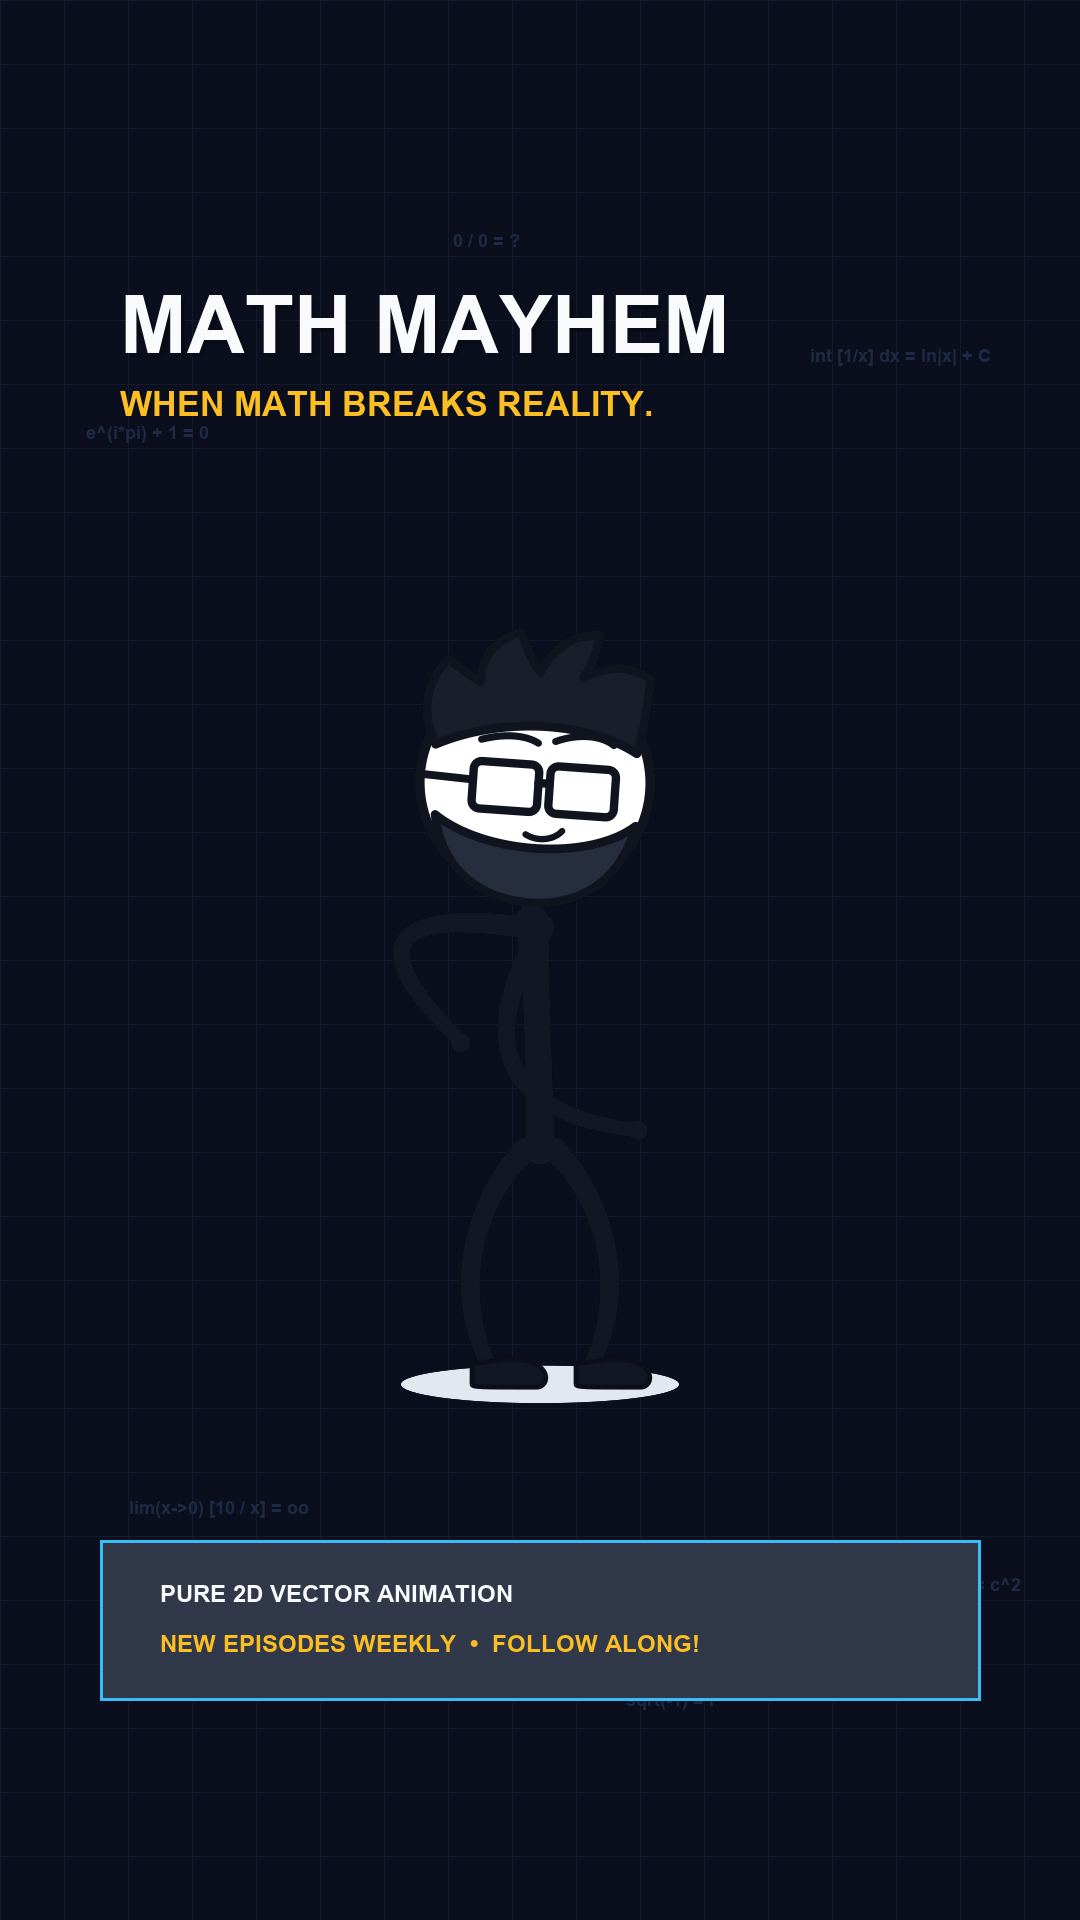
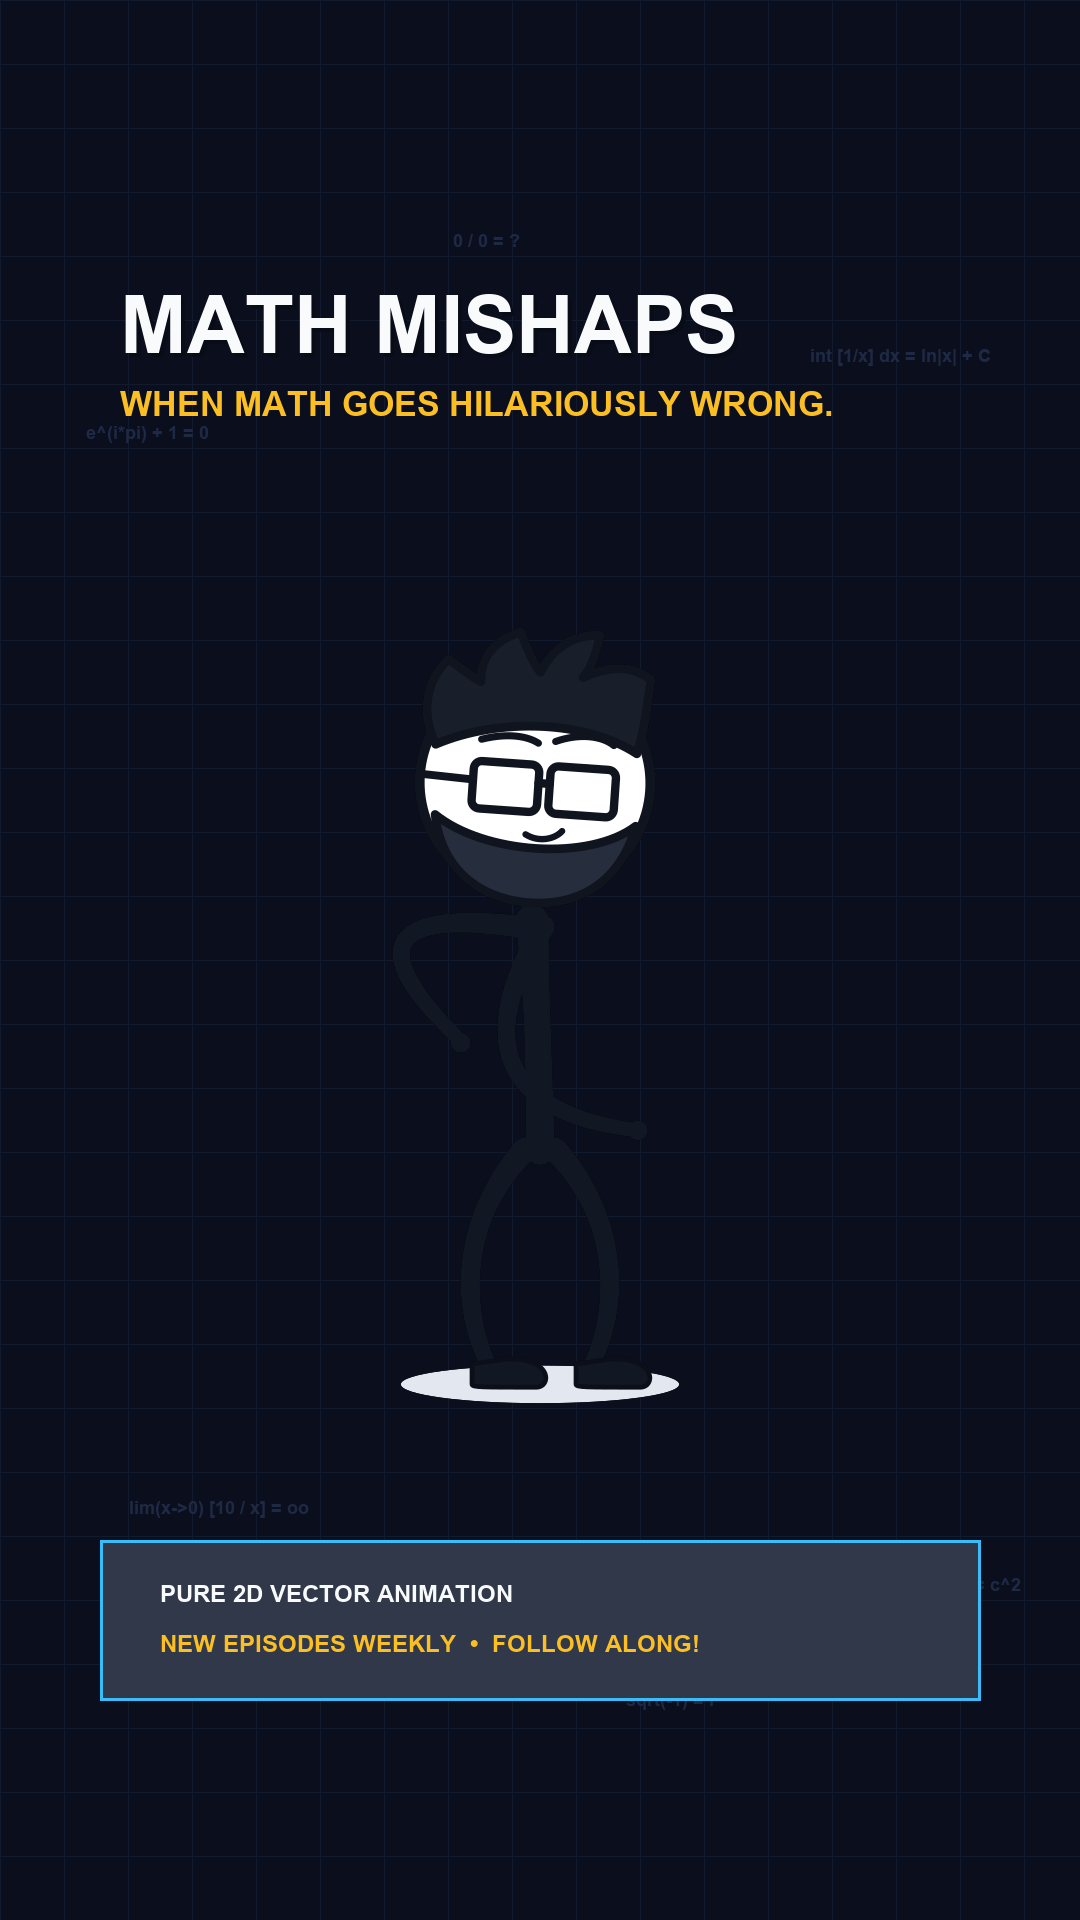
feat(branding): complete official rebrand to Math Mishaps across channel assets and distribution metadata

Changed region(s): [[0.3056, 0.1562, 0.7639, 0.2188]]

diff --git a/app/distribution_adapters.py b/app/distribution_adapters.py
@@ -120,7 +120,7 @@ class YouTubeShortsAdapter(BasePublishingAdapter):
             title = f"{base_title[:75]}... #Shorts"
 
         description_lines = [
-            f"Math Mayhem — {episode.title}",
+            f"Math Mishaps — {episode.title}",
             "",
             "Can you solve this before reality breaks?",
             "",
@@ -130,12 +130,12 @@ class YouTubeShortsAdapter(BasePublishingAdapter):
             "⚠ Disclaimer:",
             "Educational satire. Fictional comedic consequences (e.g. dimensional rotation, cartoon void collapses) are purely illustrative!",
             "",
-            "#MathMayhem #Shorts #Math #Animation #Comedy #Education #Science #STEM",
+            "#MathMishaps #Shorts #Math #Animation #Comedy #Education #Science #STEM",
         ]
         description = "\n".join(description_lines)
 
         tags = [
-            "Math Mayhem",
+            "Math Mishaps",
             "animation",
             "shorts",
             "math comedy",
@@ -151,7 +151,7 @@ class YouTubeShortsAdapter(BasePublishingAdapter):
             title=title,
             description=description,
             tags=tags,
-            hashtags=["#Shorts", "#MathMayhem", "#Math", "#Animation", "#STEM"],
+            hashtags=["#Shorts", "#MathMishaps", "#Math", "#Animation", "#STEM"],
             disclaimer_text="Fictional comedic metaphors are purely illustrative.",
             math_summary="Verified via SymPy symbolic engine.",
             category="Education",
@@ -225,17 +225,17 @@ class TikTokAdapter(BasePublishingAdapter):
     def build_metadata(self, episode: Episode, version: EpisodeVersion) -> PublishMetadata:
         caption = (
             f"Wait till the end... 😱 {episode.title} "
-            f"#MathMayhem #Math #Animation #Comedy #StemTok #LearnOnTikTok #Cartoon"
+            f"#MathMishaps #Math #Animation #Comedy #StemTok #LearnOnTikTok #Cartoon"
         )
         if len(caption) > 150:
             caption = caption[:147] + "..."
 
-        tags = ["MathMayhem", "StemTok", "animation", "comedy", "math", "calculus"]
+        tags = ["MathMishaps", "StemTok", "animation", "comedy", "math", "calculus"]
         return PublishMetadata(
             title=caption,
             description=caption,
             tags=tags,
-            hashtags=["#MathMayhem", "#StemTok", "#Math", "#Animation"],
+            hashtags=["#MathMishaps", "#StemTok", "#Math", "#Animation"],
             category="Education",
             privacy_status="public",
         )
@@ -259,7 +259,7 @@ class TikTokAdapter(BasePublishingAdapter):
 
         is_sim = True if force_simulation is not False else False
         mock_id = f"tt_{version.video_sha256[:12]}" if version.video_sha256 else f"tt_sim_{int(time.time())}"
-        published_url = f"https://www.tiktok.com/@mathmayhem/video/{mock_id}"
+        published_url = f"https://www.tiktok.com/@mathmishaps/video/{mock_id}"
 
         session.add(
             AuditEvent(
@@ -302,13 +302,13 @@ class InstagramReelsAdapter(BasePublishingAdapter):
             f"{episode.title} 🧮 Pure 2D vector animation. "
             f"Never argue with mathematics!\n\n"
             f"Audio: Option A Playful Orchestral Cartoon\n"
-            f"#MathMayhem #Reels #MathReels #2DAnimation #Cairo #IndieAnimation #STEM"
+            f"#MathMishaps #Reels #MathReels #2DAnimation #Cairo #IndieAnimation #STEM"
         )
         return PublishMetadata(
             title=episode.title,
             description=caption,
-            tags=["MathMayhem", "Reels", "Animation", "Math"],
-            hashtags=["#MathMayhem", "#Reels", "#2DAnimation", "#STEM"],
+            tags=["MathMishaps", "Reels", "Animation", "Math"],
+            hashtags=["#MathMishaps", "#Reels", "#2DAnimation", "#STEM"],
             category="Education",
             privacy_status="public",
         )

diff --git a/app/branding_generator.py b/app/branding_generator.py
@@ -193,8 +193,8 @@ def generate_youtube_banner(out_path: Path) -> Path:
     subtitle_font = load_math_font(34)
     badge_font = load_math_font(22)
 
-    # "MATH MAYHEM" with 3D chalk drop shadow
-    title_text = "MATH MAYHEM"
+    # "MATH MISHAPS" with 3D chalk drop shadow
+    title_text = "MATH MISHAPS"
     title_x = safe_left + 60
     title_y = safe_top + 80
     draw.text((title_x + 4, title_y + 4), title_text, fill=(8, 12, 22), font=title_font)
@@ -203,7 +203,7 @@ def generate_youtube_banner(out_path: Path) -> Path:
     # Tagline
     tag_x = title_x + 5
     tag_y = title_y + 105
-    draw.text((tag_x, tag_y), "WHEN MATH BREAKS REALITY.", fill=ACCENT_GOLD, font=subtitle_font)
+    draw.text((tag_x, tag_y), "WHEN MATH GOES HILARIOUSLY WRONG.", fill=ACCENT_GOLD, font=subtitle_font)
 
     # Value Proposition Badges
     badge_y = tag_y + 65
@@ -268,10 +268,10 @@ def generate_social_header(out_path: Path) -> Path:
 
     title_x = 80
     title_y = 180
-    draw.text((title_x + 3, title_y + 3), "MATH MAYHEM", fill=(8, 12, 22), font=title_font)
-    draw.text((title_x, title_y), "MATH MAYHEM", fill=CHALK_WHITE, font=title_font)
+    draw.text((title_x + 3, title_y + 3), "MATH MISHAPS", fill=(8, 12, 22), font=title_font)
+    draw.text((title_x, title_y), "MATH MISHAPS", fill=CHALK_WHITE, font=title_font)
 
-    draw.text((title_x, title_y + 78), "When Math Breaks Reality.", fill=ACCENT_GOLD, font=subtitle_font)
+    draw.text((title_x, title_y + 78), "When Math Goes Terribly, Hilariously Wrong.", fill=ACCENT_GOLD, font=subtitle_font)
     draw.text((title_x, title_y + 128), "Pure 2D Animation  •  Zero Dialogue  •  Weekly Shorts", fill=ACCENT_CYAN, font=badge_font)
 
     # Option C Protagonist on Right
@@ -329,10 +329,10 @@ def generate_mobile_banner(out_path: Path) -> Path:
     badge_font = load_math_font(24)
 
     # Top Header
-    title_text = "MATH MAYHEM"
+    title_text = "MATH MISHAPS"
     draw.text((124, 284), title_text, fill=(8, 12, 22), font=title_font)
     draw.text((120, 280), title_text, fill=CHALK_WHITE, font=title_font)
-    draw.text((120, 385), "WHEN MATH BREAKS REALITY.", fill=ACCENT_GOLD, font=subtitle_font)
+    draw.text((120, 385), "WHEN MATH GOES HILARIOUSLY WRONG.", fill=ACCENT_GOLD, font=subtitle_font)
 
     # Center Character
     surf = cairo.ImageSurface(cairo.FORMAT_ARGB32, width, height)
@@ -410,7 +410,7 @@ def generate_watermark(out_path: Path) -> Path:
 
     # Brand text
     brand_font = load_math_font(36)
-    draw.text((115, 395), "MATH MAYHEM", fill=ACCENT_CYAN, font=brand_font)
+    draw.text((108, 395), "MATH MISHAPS", fill=ACCENT_CYAN, font=brand_font)
 
     out_path.parent.mkdir(parents=True, exist_ok=True)
     img.save(out_path, format="PNG")
@@ -422,7 +422,7 @@ def build_full_branding_kit(output_dir: Optional[Path] = None) -> dict[str, Path
     target_dir = output_dir or (Path(__file__).resolve().parent.parent / "renders" / "branding")
     target_dir.mkdir(parents=True, exist_ok=True)
 
-    print(f"Generating Math Mayhem Channel Branding Kit into: {target_dir}")
+    print(f"Generating Math Mishaps Channel Branding Kit into: {target_dir}")
     res = {
         "avatar": generate_avatar(target_dir / "channel_avatar_1024x1024.png"),
         "youtube_banner": generate_youtube_banner(target_dir / "youtube_banner_2560x1440.png"),

diff --git a/renders/packages/EP001_RELEASE_MASTER/metadata/DISTRIBUTION_GUIDE.md b/renders/packages/EP001_RELEASE_MASTER/metadata/DISTRIBUTION_GUIDE.md
@@ -1,9 +1,12 @@
-# Math Mayhem — Episode 001 Platform Distribution Guide
+# Math Mishaps — Episode 001 Platform Distribution Guide
 
-## Episode Overview
-- **Title:** Never Divide by Zero
+## Series & Brand Overview
+- **Series Title:** Math Mishaps
+- **Official Handle:** `@MathMishaps` (YouTube, TikTok, Instagram)
+- **Tagline:** *"When Math Goes Terribly, Hilariously Wrong."*
+- **Episode Title:** Never Divide by Zero (Director's Cut)
 - **Episode Code:** EP001
-- **Runtime:** 24.00 seconds (720 frames @ 30 FPS)
+- **Runtime:** 26.00 seconds (780 frames @ 30 FPS)
 - **Format:** 1080 × 1920 (9:16 Vertical Video)
 - **Soundtrack:** Option A Playful Orchestral Cartoon Mix
 
@@ -16,27 +19,27 @@
 
 **Description:**
 ```
-What happens when you divide by zero on a giant calculator?
+What happens when you divide by zero on a giant calculator in the void?
 
-Episode 001 of Math Mayhem: 'Never Divide by Zero'.
+Welcome to Math Mishaps — pure 2D animated cartoon comedy where math goes horribly, hilariously wrong!
 
 Mathematical Truth:
 • 10 ÷ 2 = 5
 • 10 ÷ 1 = 10
-• 10 ÷ 0 = UNDEFINED (Division by zero is impossible in standard arithmetic!)
-• 0 ÷ 0 = INDETERMINATE / UNDEFINED (The forbidden cliffhanger!)
+• 10 ÷ 0 = UNDEFINED (Division by zero breaks the laws of arithmetic!)
+• 0 ÷ 0 = INDETERMINATE / UNDEFINED (The ultimate paradox!)
 
-#MathMayhem #Shorts #Animation #Math #DivideByZero #MathHumor
+#MathMishaps #Shorts #Animation #Math #DivideByZero #MathHumor #Comedy #STEM
 ```
 
-**Tags:** `math mayhem, never divide by zero, division by zero, math animation, cairo animation, python animation, math shorts, calculus, zero divided by zero, indeterminate form, funny math, stem animation`
+**Tags:** `math mishaps, mathmishaps, never divide by zero, division by zero, math animation, cairo animation, python animation, math shorts, calculus, zero divided by zero, indeterminate form, funny math, stem animation`
 
 ---
 
 ### 2. TikTok
 **Caption:**
 ```
-POV: You pushed the one button in math you're never supposed to touch... 😳💥 #MathMayhem #DivideByZero #MathTok #Animation #Funny #LearnOnTikTok
+POV: You pushed the one button in math you're never supposed to touch... 😳💥 #MathMishaps #DivideByZero #MathTok #Animation #Funny #LearnOnTikTok
 ```
 
 ---
@@ -50,7 +53,7 @@ Watch what happens when our protagonist encounters a pedestal calculator in the 
 
 Drop your favorite math paradox in the comments! 👇
 
-#MathMayhem #MathHumor #Animation #StemEducation #MathReels #ZeroDivision
+#MathMishaps #MathHumor #Animation #StemEducation #MathReels #ZeroDivision #2DAnimation
 ```
 
 ---
@@ -67,7 +70,7 @@ As x approaches 0 from the right, 10 / x approaches +∞; from the left, it appr
 Because there is no finite, single consistent value, 10 ÷ 0 is strictly UNDEFINED.
 
 And what about 0 ÷ 0? That's an INDETERMINATE form: any number y satisfies y * 0 = 0!
-Stay tuned for Episode 002 for more Math Mayhem!
+Stay tuned for Episode 002 for more Math Mishaps!
 ```
 
 ---
